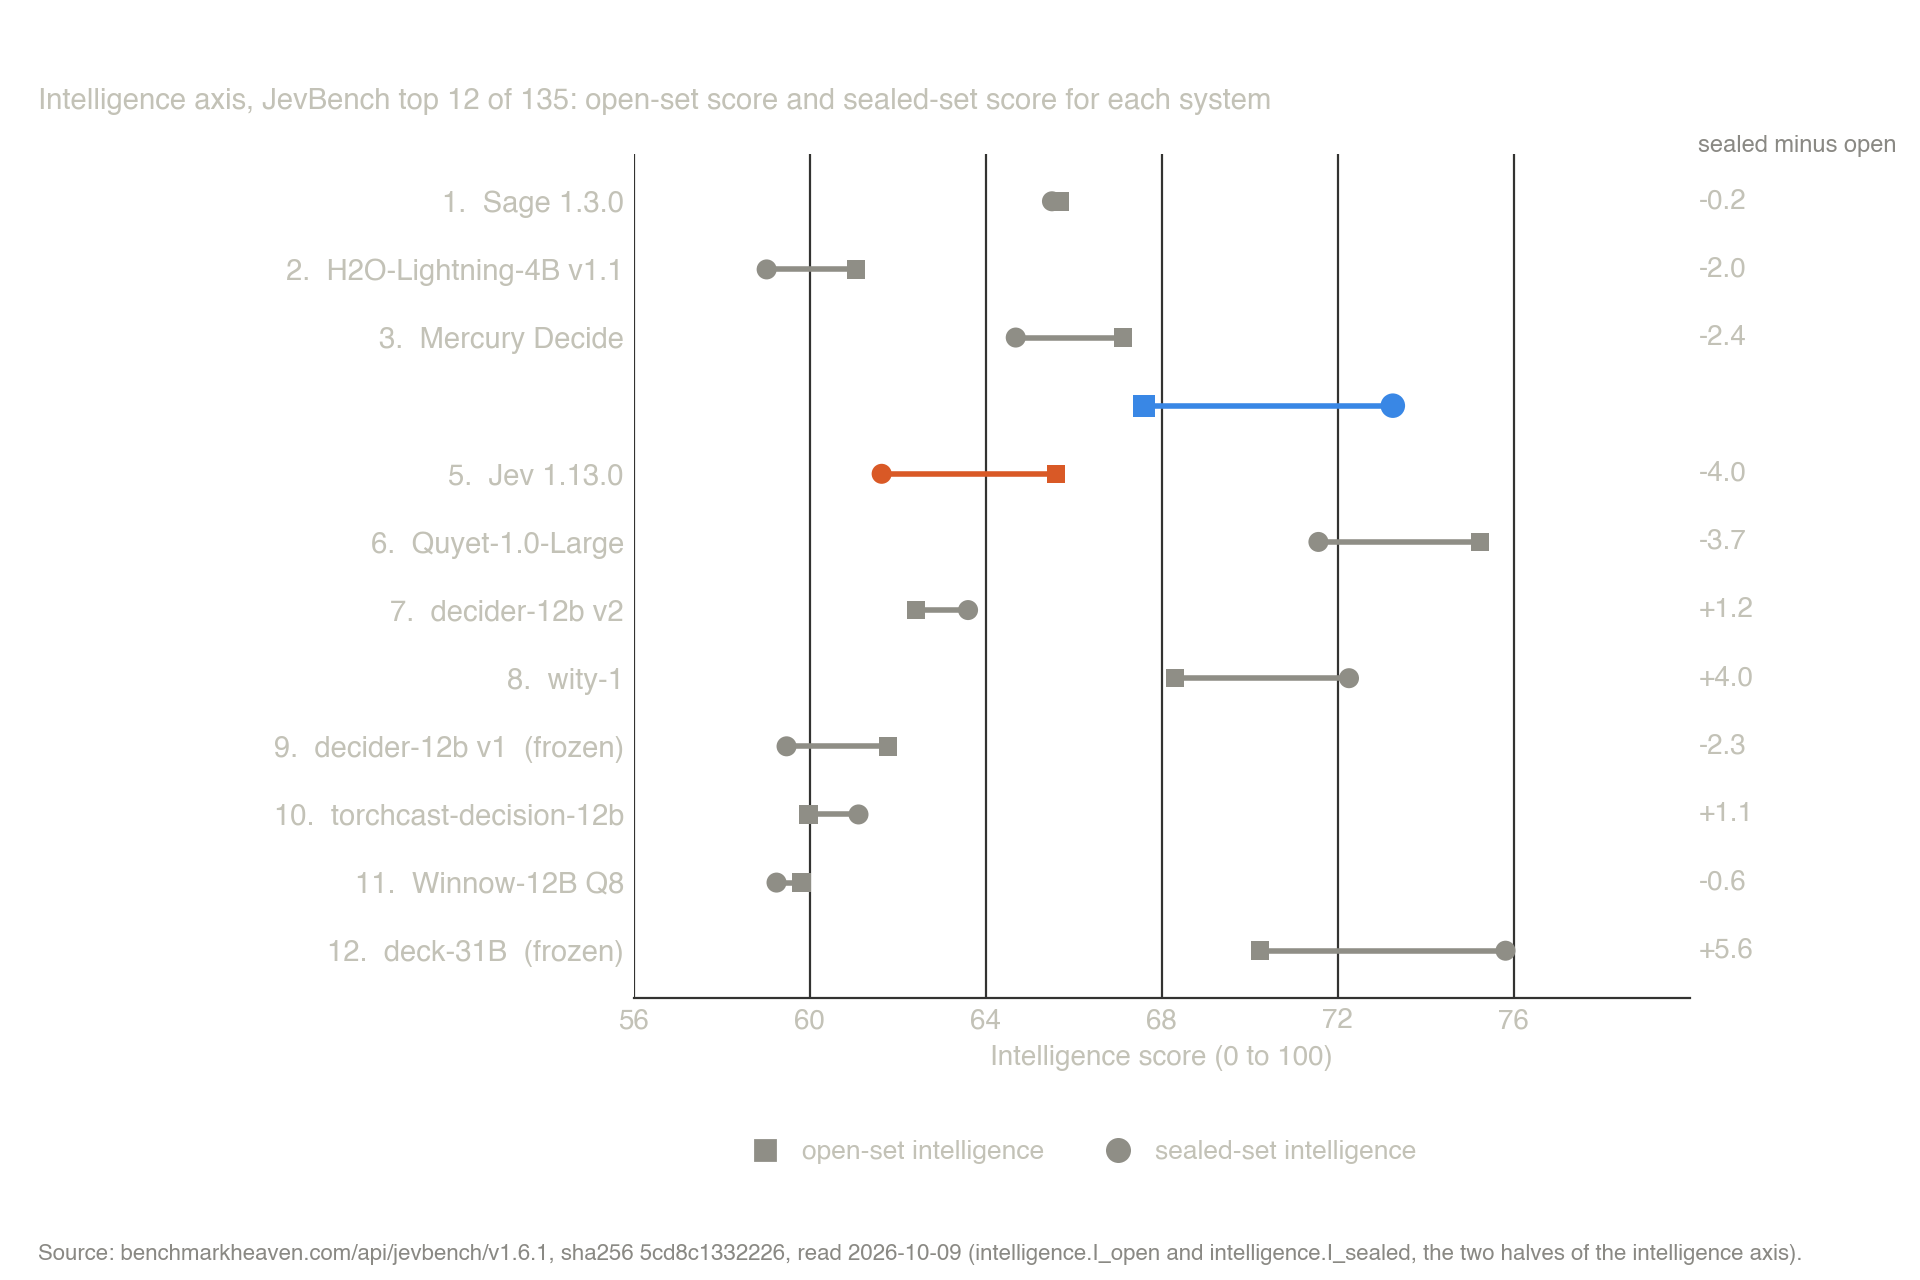
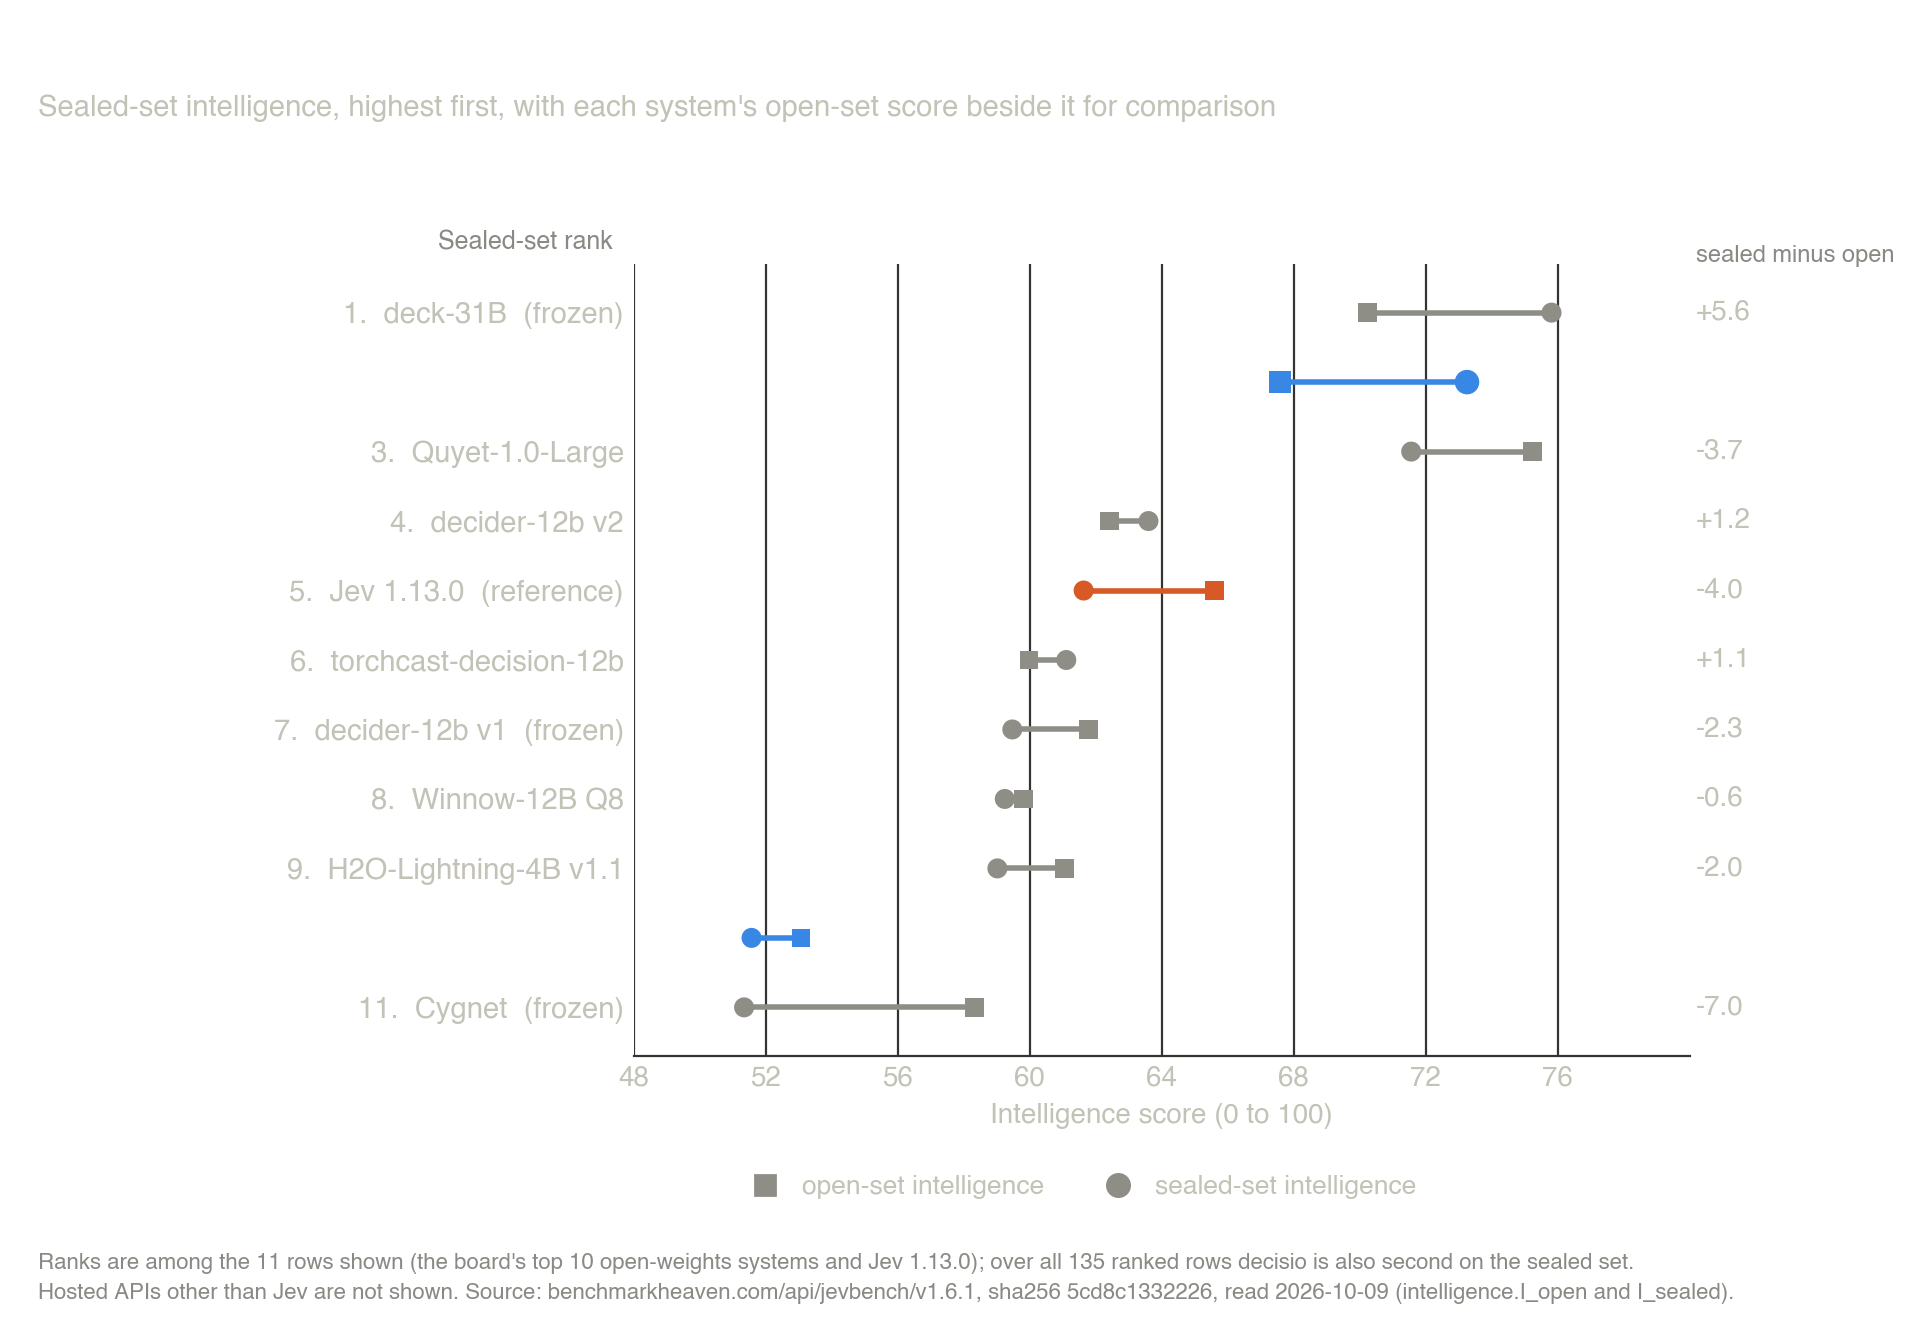
docs: the README's lead claim is claims.lead, Lab 1's final charts, and the head-to-head against H2O-Lightning-4B and Quyet-1.0-Large
The headline is claims.lead (launch_facts.json, RLCD 2a9e0e00) verbatim. The table and the one-line summaries are generated from head_to_head by Advocacy's generator (every row shown, theirs included where they lead; differences read from the facts, never recomputed; the Quyet prompt length is Lab 1's 4.1 times, prompt against prompt, with no other multiple and no ratio against H2O). Charts from RLCD b176f34d and 6d08bb26, with Advocacy's alt text.

diff --git a/README.md b/README.md
@@ -14,7 +14,7 @@
 
 <picture>
   <source media="(prefers-color-scheme: dark)" srcset="docs/launch/jevbench_top12_dark.png">
-  <img src="docs/launch/jevbench_top12.png" alt="JevBench v1.6.1: the top 12 of 135 ranked systems; decisio on Gemma 4 31B is second among open-weights systems, level with Jev, and the highest-ranked with frozen weights">
+  <img src="docs/launch/jevbench_top12.png" alt="A dot plot of JevBench v1.6.1 composite scores with 95% intervals for the board's ten highest open-weights systems, with Jev 1.13.0 below as a reference row. H2O-Lightning-4B is first and Decisio on Gemma 4 31B is second, 71.69 against 72.52, with Quyet-1.0-Large third. The intervals of the first three overlap, and Jev's overlaps Decisio's.">
 </picture>
 
 <!-- Advocacy's demo reel goes here once it exists. -->
@@ -465,6 +465,75 @@ The intent heads use labelled examples, so their figures are not comparable with
 Calibration on JevBench, as ECE on the standard and hard tiers: 0.121 and 0.043 on the Qwen base, 0.033 and 0.085 on the Gemma 4 12B base, 0.035 and 0.091 on the Gemma 4 31B base.
 `EVAL_CARD.md` has the full tables, the calibration figures and the disclosures of what was fitted on what (sections 4, 6.4 and 7.4).
 
+### Against H2O-Lightning-4B and Quyet-1.0-Large
+
+JevBench v1.6.1, the board's own values, 0 to 100, higher is better.
+The four axes have no published intervals, so these are the board's numbers and nothing more is claimed.
+Every row is shown, theirs included where they lead.
+The composite's 95% intervals overlap for both, so neither side is said to lead on it.
+
+#### Against H2O-Lightning-4B
+
+| Measure | decisio 31B | H2O-Lightning-4B | Difference (decisio 31B minus them) | Higher |
+| --- | ---: | ---: | ---: | --- |
+| Composite score | 71.69 | 72.52 | -0.83 | intervals overlap |
+| Intelligence axis | 70.4 | 60.0 | +10.4 | decisio 31B |
+| Sealed-set intelligence | 73.3 | 59.0 | +14.3 | decisio 31B |
+| Open-set intelligence | 67.6 | 61.1 | +6.5 | decisio 31B |
+| Calibration axis | 88.7 | 90.0 | -1.3 | H2O-Lightning-4B |
+| Speed axis | 91.2 | 92.6 | -1.4 | H2O-Lightning-4B |
+| Cost axis | 51.7 | 60.3 | -8.6 | H2O-Lightning-4B |
+| Training, as the card states it | Nothing was trained. | decision adapter as a LoRA for the base model | | |
+| Longest input, as the card states it | Context up to 32,768 tokens per prompt. | --max-model-len 40960 | | |
+| Options per question, as the card states it | Up to 255 options per question | Decides best with up to about 16 options; up to 255 are accepted. | | |
+
+#### Against Quyet-1.0-Large
+
+| Measure | decisio 31B | Quyet-1.0-Large | Difference (decisio 31B minus them) | Higher |
+| --- | ---: | ---: | ---: | --- |
+| Composite score | 71.69 | 71.39 | +0.30 | intervals overlap |
+| Intelligence axis | 70.4 | 73.4 | -3.0 | Quyet-1.0-Large |
+| Sealed-set intelligence | 73.3 | 71.6 | +1.7 | decisio 31B |
+| Open-set intelligence | 67.6 | 75.2 | -7.6 | Quyet-1.0-Large |
+| Calibration axis | 88.7 | 90.0 | -1.3 | Quyet-1.0-Large |
+| Speed axis | 91.2 | 86.9 | +4.3 | decisio 31B |
+| Cost axis | 51.7 | 50.5 | +1.2 | decisio 31B |
+| Prompt length, as the cards state it | 32,768 tokens | 8,000 tokens | 4.1 times | |
+| Training, as the card states it | Nothing was trained. | Gemma-4-31B-it with a merged LoRA fine-tune (rank 16) | | |
+| Longest input, as the card states it | Context up to 32,768 tokens per prompt. | state up to 6,000 tokens inside an 8,000-token prompt | | |
+| Options per question, as the card states it | Up to 255 options per question | At most 10 options per question. | | |
+
+In one line each:
+
+- H2O-Lightning-4B: Higher on what the model knows (Intelligence axis: 70.4 against 60.0). H2O is built on a smaller base (Qwen/Qwen3.5-4B, its card) and is cheaper by the board's cost axis (Cost axis: 51.7 against 60.3).
+- Quyet-1.0-Large: Higher on the sealed questions (Sealed-set intelligence: 73.3 against 71.6) and on the speed axis (Speed axis: 91.2 against 86.9). Prompt length: 32,768 tokens against 8,000 tokens (4.1 times), each card's own words as quoted in the table. Training, as each card states it: 'Nothing was trained.' against 'Gemma-4-31B-it with a merged LoRA fine-tune (rank 16)'. Quyet is higher on intelligence axis (70.4 against 73.4) and on open-set intelligence (67.6 against 75.2).
+
+#### Card statements, as recorded
+
+| Card | Statement | Quoted line | Where |
+| --- | --- | --- | --- |
+| decisio 31B | training | Nothing was trained. | [line 23, revision 47833608](https://huggingface.co/tachara-ai/decisio-gemma-4-31b) |
+| decisio 31B | longest state | Context up to 32,768 tokens per prompt. | [line 37, revision c23ae405](https://github.com/aminry/decisio/blob/c23ae4055b75fe1d8ca3cad0c337d204a8a2110a/EVAL_CARD.md) |
+| decisio 31B | option limit | Up to 255 options per question | [line 30, revision c23ae405](https://github.com/aminry/decisio/blob/c23ae4055b75fe1d8ca3cad0c337d204a8a2110a/EVAL_CARD.md) |
+| H2O-Lightning-4B | training | decision adapter as a LoRA for the base model | [line 338, revision acaf0d4e](https://huggingface.co/h2oai/h2o-lightning-4b) |
+| H2O-Lightning-4B | longest state | --max-model-len 40960 | [line 195, revision acaf0d4e](https://huggingface.co/h2oai/h2o-lightning-4b) |
+| H2O-Lightning-4B | option limit | Decides best with up to about 16 options; up to 255 are accepted. | [line 404, revision acaf0d4e](https://huggingface.co/h2oai/h2o-lightning-4b) |
+| H2O-Lightning-4B | training data | No benchmark test items in training | [line 52, revision acaf0d4e](https://huggingface.co/h2oai/h2o-lightning-4b) |
+| H2O-Lightning-4B | base model | base_model: Qwen/Qwen3.5-4B | [line 3, revision acaf0d4e](https://huggingface.co/h2oai/h2o-lightning-4b) |
+| H2O-Lightning-4B | state limit 422 | Inputs over the context limit get HTTP 422 | [line 190, revision acaf0d4e](https://huggingface.co/h2oai/h2o-lightning-4b) |
+| Quyet-1.0-Large | training | Gemma-4-31B-it with a merged LoRA fine-tune (rank 16) | [line 20, revision 3a3c5e7d](https://huggingface.co/chinhnc/Quyet-1.0-Large) |
+| Quyet-1.0-Large | longest state | state up to 6,000 tokens inside an 8,000-token prompt | [line 23, revision 3a3c5e7d](https://huggingface.co/chinhnc/Quyet-1.0-Large) |
+| Quyet-1.0-Large | option limit | At most 10 options per question. | [line 52, revision 3a3c5e7d](https://huggingface.co/chinhnc/Quyet-1.0-Large) |
+| Quyet-1.0-Large | base model | base_model: google/gemma-4-31B-it | [line 4, revision 3a3c5e7d](https://huggingface.co/chinhnc/Quyet-1.0-Large) |
+| Quyet-1.0-Large | prompt limit | an 8,000-token prompt | [line 23, revision 3a3c5e7d](https://huggingface.co/chinhnc/Quyet-1.0-Large) |
+
+Board values with their paths and each card's quoted lines are in Lab 1's `launch_facts.json`, `head_to_head`.
+
+<picture>
+  <source media="(prefers-color-scheme: dark)" srcset="docs/launch/head_to_head_dark.png">
+  <img src="docs/launch/head_to_head.png" alt="Two panels of horizontal diverging bars, Decisio on Gemma 4 31B minus each competitor in board points, for seven JevBench v1.6.1 measures sorted from Decisio's largest lead to its largest shortfall, with the two values beside each row. Against H2O-Lightning-4B, Decisio is higher on Sealed-set intelligence: 73.3 against 59.0; Intelligence axis: 70.4 against 60.0; Open-set intelligence: 67.6 against 61.1, and lower on Cost axis: 51.7 against 60.3; Speed axis: 91.2 against 92.6; Calibration axis: 88.7 against 90.0. Composite score: 71.69 against 72.52, and the composite's intervals overlap. Against Quyet-1.0-Large, Decisio is higher on Speed axis: 91.2 against 86.9; Sealed-set intelligence: 73.3 against 71.6; Cost axis: 51.7 against 50.5, and lower on Open-set intelligence: 67.6 against 75.2; Intelligence axis: 70.4 against 73.4; Calibration axis: 88.7 against 90.0. Composite score: 71.69 against 71.39, and the composite's intervals overlap.">
+</picture>
+
 ### How we read the board
 
 <picture>
@@ -474,7 +543,7 @@ Calibration on JevBench, as ECE on the standard and hard tiers: 0.121 and 0.043 
 
 <picture>
   <source media="(prefers-color-scheme: dark)" srcset="docs/launch/sealed_vs_open_dark.png">
-  <img src="docs/launch/sealed_vs_open.png" alt="decisio's JevBench score on the sealed items and on the open ones">
+  <img src="docs/launch/sealed_vs_open.png" alt="A dot plot of the intelligence axis of JevBench v1.6.1 for eleven systems, sorted by sealed-set score, each with its open-set score beside it. deck-31B is first and Decisio on Gemma 4 31B is second on the sealed set, and Decisio scores higher on the sealed items than on the open ones.">
 </picture>
 
 Decisio scores higher on the sealed items than on the open ones.
